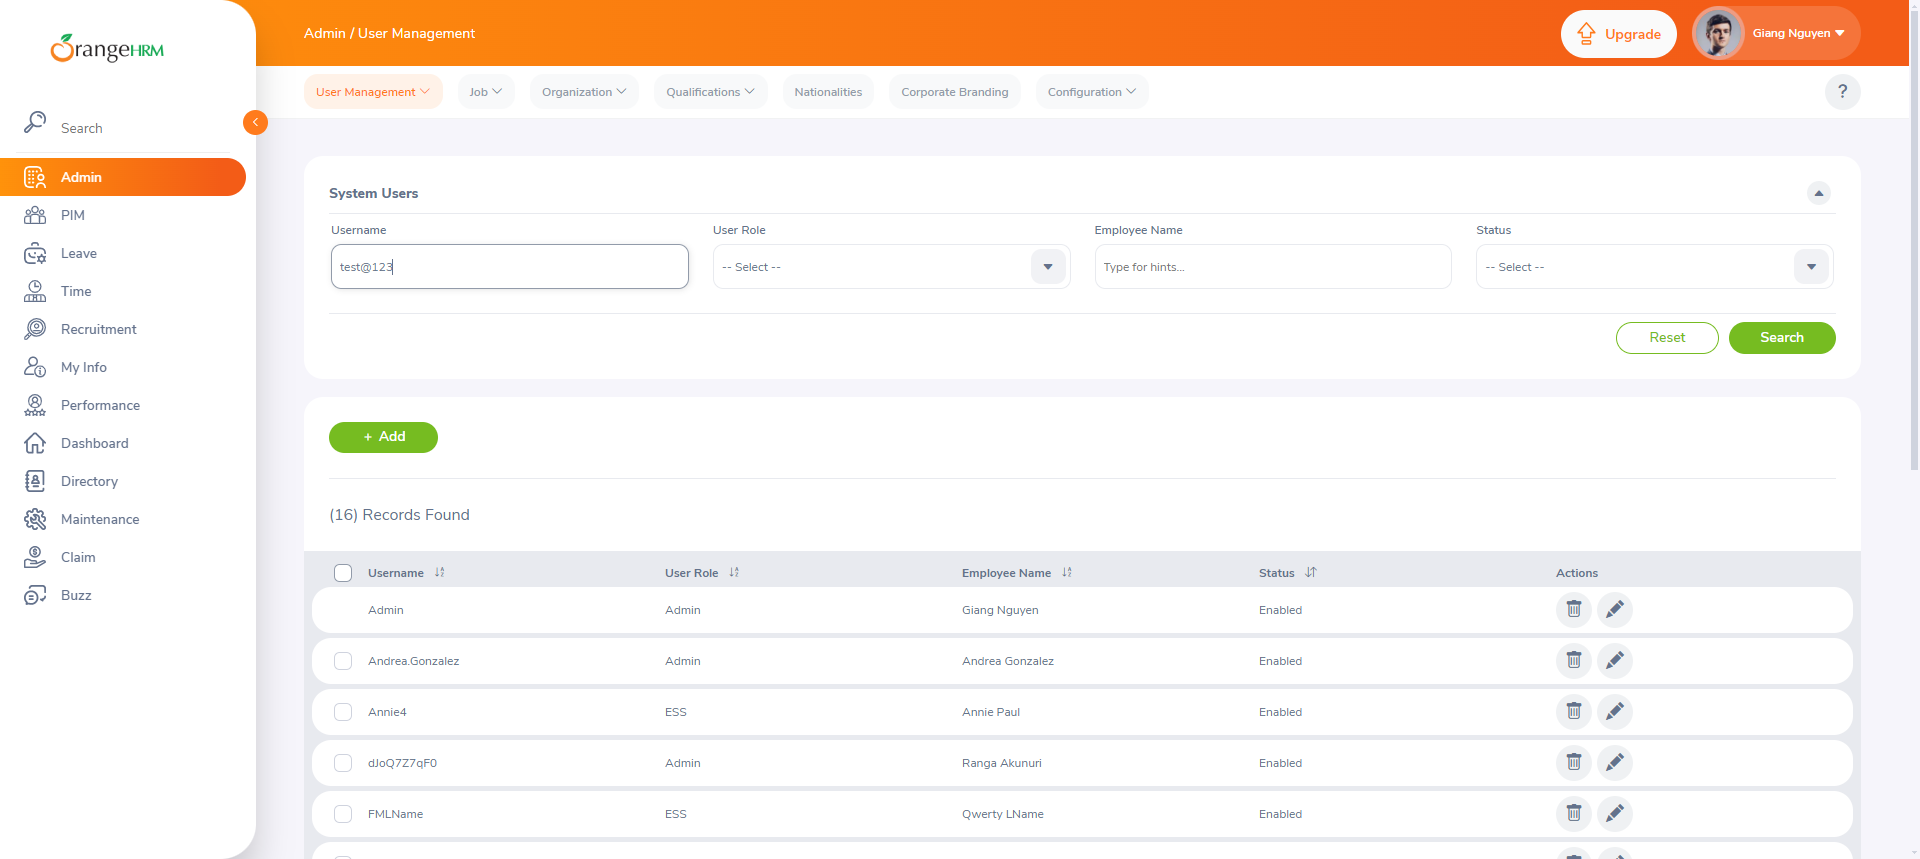
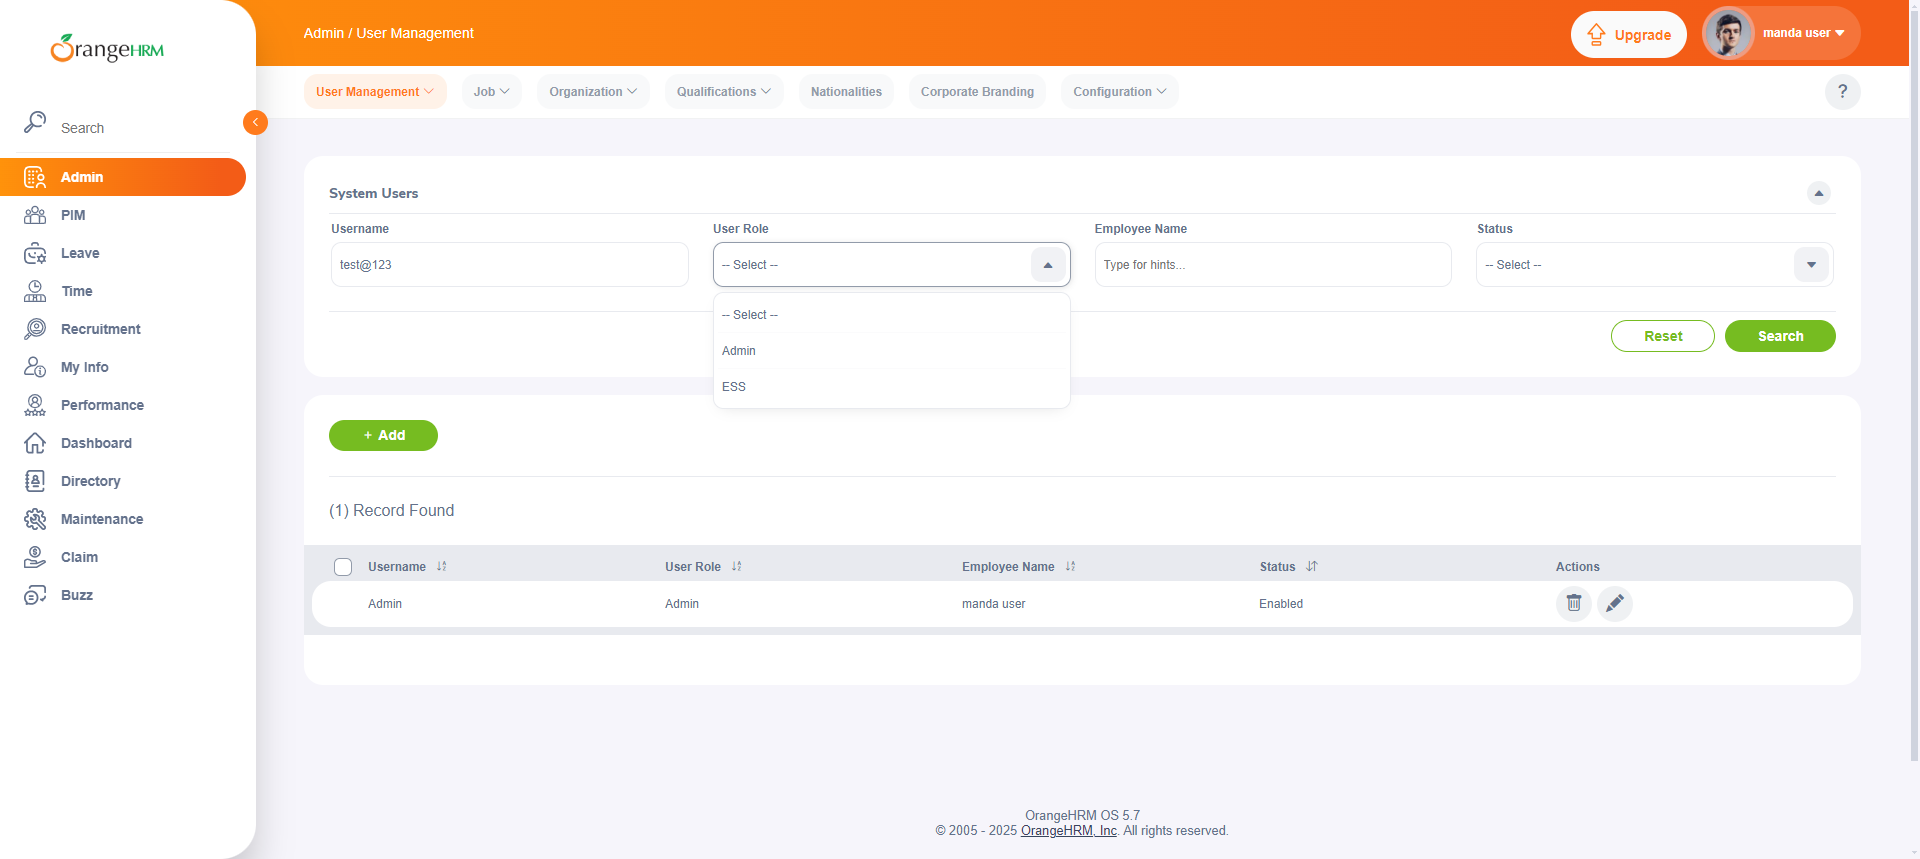
new changes_1

diff --git a/src/main/java/org/example/ActionFiles/OrangeHRMEleActions.java b/src/main/java/org/example/ActionFiles/OrangeHRMEleActions.java
@@ -4,6 +4,7 @@ import org.example.XpathLocator.OrangeHRMLocators;
 import org.openqa.selenium.By;
 import org.openqa.selenium.WebDriver;
 import org.openqa.selenium.WebElement;
+import org.openqa.selenium.support.ui.Select;
 
 public class OrangeHRMEleActions {
 
@@ -12,7 +13,7 @@ public class OrangeHRMEleActions {
     public OrangeHRMEleActions(WebDriver driver)
     {
         this.driver = driver;
-        
+
     }
 
     public void OpenApplication(String url)
@@ -61,6 +62,17 @@ public class OrangeHRMEleActions {
         WebElement usernameField_admin = driver.findElement(By.xpath(OrangeHRMLocators.USERNAME_ADMIN_FIELD));
         usernameField_admin.click();
         usernameField_admin.sendKeys(username_admin_field);
+    }
+
+    public void user_role_dropdown()
+    {
+        WebElement user_role_tab = driver.findElement(By.xpath(OrangeHRMLocators.USER_ROLE_DROPDOWN));
+        user_role_tab.click();
+
+        WebElement adminOption = driver.findElement(By.xpath(OrangeHRMLocators.ROLE_DROPDOWN));
+        adminOption.click();
+
+
     }
 }
 

diff --git a/src/main/java/org/example/XpathLocator/OrangeHRMLocators.java b/src/main/java/org/example/XpathLocator/OrangeHRMLocators.java
@@ -7,5 +7,7 @@ public class OrangeHRMLocators {
     public static final String LOGIN_BUTTON = "//*[@id=\"app\"]/div[1]/div/div[1]/div/div[2]/div[2]/form/div[3]/button";
     public static final String ADMIN_TAB = "//*[@id=\"app\"]/div[1]/div[1]/aside/nav/div[2]/ul/li[1]/a/span";
     public static final String USERNAME_ADMIN_FIELD = "//*[@id=\"app\"]/div[1]/div[2]/div[2]/div/div[1]/div[2]/form/div[1]/div/div[1]/div/div[2]/input";
+    public static final String USER_ROLE_DROPDOWN ="//div[@class='oxd-select-text oxd-select-text--active']//div[2]//i";
+    public static final String ROLE_DROPDOWN = "//div[@class='oxd-select-dropdown oxd-select-dropdown--visible']//span[text()='Admin']";
 
 }

diff --git a/src/main/java/org/example/MainMethod/OrangeHRMMain.java b/src/main/java/org/example/MainMethod/OrangeHRMMain.java
@@ -44,6 +44,8 @@ public class OrangeHRMMain {
 
         actions.username_admin("test@123");
 
+        actions.user_role_dropdown();
+
         File srcfile = ((TakesScreenshot)driver).getScreenshotAs(OutputType.FILE);
         File destFile = new File("screenshot.png");
         FileUtils.copyFile(srcfile, destFile);
